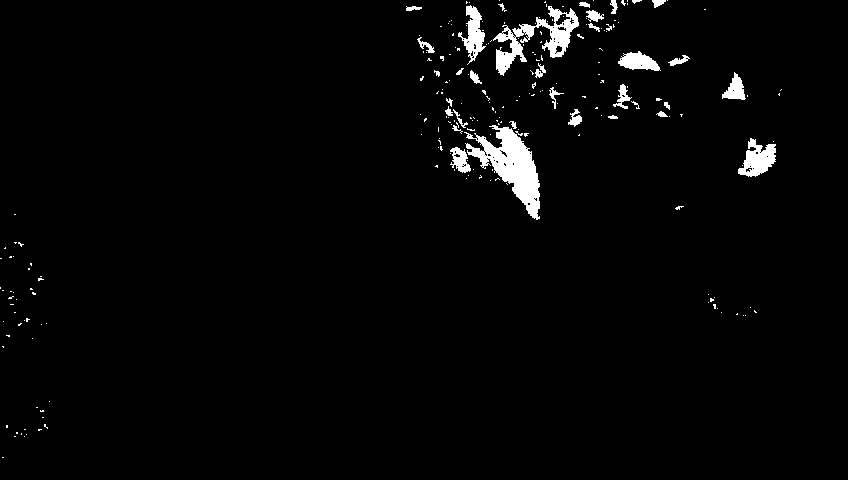
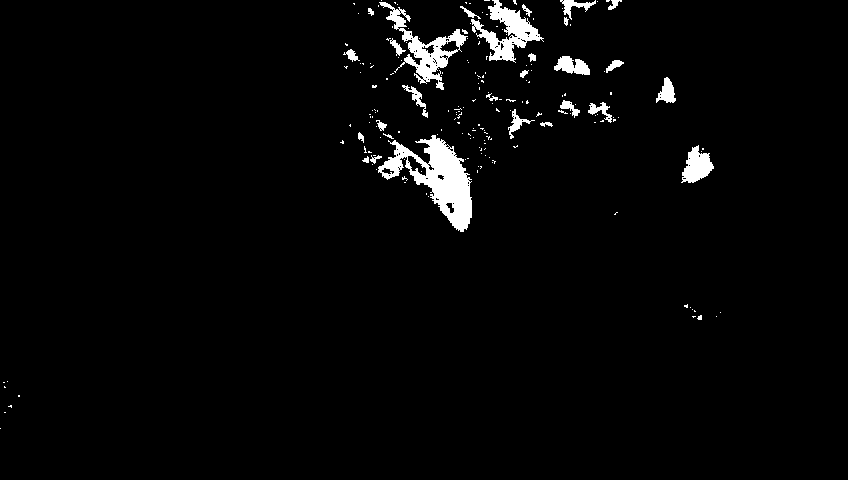
scan mostly working

diff --git a/jetson/src/core/robot.cpp b/jetson/src/core/robot.cpp
@@ -164,6 +164,7 @@ uint16_t Robot::getDriveMotorEncoderVal(DriveMotor motor) {
 
 void Robot::moveServoArm(ServoMotor motor, double pos) {
 	servoArm[motor].simple_pos(pos);
+	armPosition[motor] = pos;
 }
 
 void Robot::pollinate() { 
@@ -188,16 +189,19 @@ std::vector<Point3D> Robot::scan() {
 			flowersToVisit.insert(flowersToVisit.end(), newFlowers.begin(), newFlowers.end());
 		}
 	}
-	return avgClusterCenters(flowersToVisit, 10);
+	for (auto flowerToVisit : flowersToVisit){
+		log(std::string("flower: ") + std::to_string(flowerToVisit.x) + std::string(", ") + std::to_string(flowerToVisit.y)
+		 + std::string(", ") + std::to_string(flowerToVisit.z));
+	}
+	return avgClusterCenters(flowersToVisit, 0.06);
 }
 
 std::vector<Point3D> Robot::findFlowers(){
 	camera.storeSnapshot();
 	cv::Mat image = camera.getColorImage();
-	std::string timestamp = getFormattedTimeStamp();
 	if (DEBUG) {
 		cv::cvtColor(image, image, cv::COLOR_RGB2BGR);
-		cv::imwrite(std::string("./plots") + timestamp + std::string("/") +  + std::string("_image.png"), image);
+		cv::imwrite(std::string("./plots/") + std::string("_image.png"), image);
 		cv::cvtColor(image, image, cv::COLOR_BGR2RGB);
 	}
 	std::vector<Point2D> flowerCenters = findFlowerCenters(image, camera);
@@ -212,7 +216,7 @@ std::vector<Point3D> Robot::findFlowers(){
 		}
 
 		cv::cvtColor(image, image, cv::COLOR_RGB2BGR);
-		cv::imwrite(std::string("./plots/") + getFormattedTimeStamp() + std::string("_yellow_blobs.png"), image);
+		cv::imwrite(std::string("./plots/") + std::string("_yellow_blobs.png"), image);
 		cv::cvtColor(image, image, cv::COLOR_BGR2RGB);
 	}
 	flowerCenters = avgClusterCenters(flowerCenters, 10);
@@ -221,7 +225,7 @@ std::vector<Point3D> Robot::findFlowers(){
 			cv::circle(image, cv::Point((int)blob.x, (int)blob.y), 5, { 255, 0, 255 }, 5);
 		}
 		cv::cvtColor(image, image, cv::COLOR_RGB2BGR);
-		cv::imwrite(std::string("./plots/") + getFormattedTimeStamp() + std::string("_clustered.png"), image);
+		cv::imwrite(std::string("./plots/")  + std::string("_clustered.png"), image);
 		cv::cvtColor(image, image, cv::COLOR_BGR2RGB);
 	}
 	
